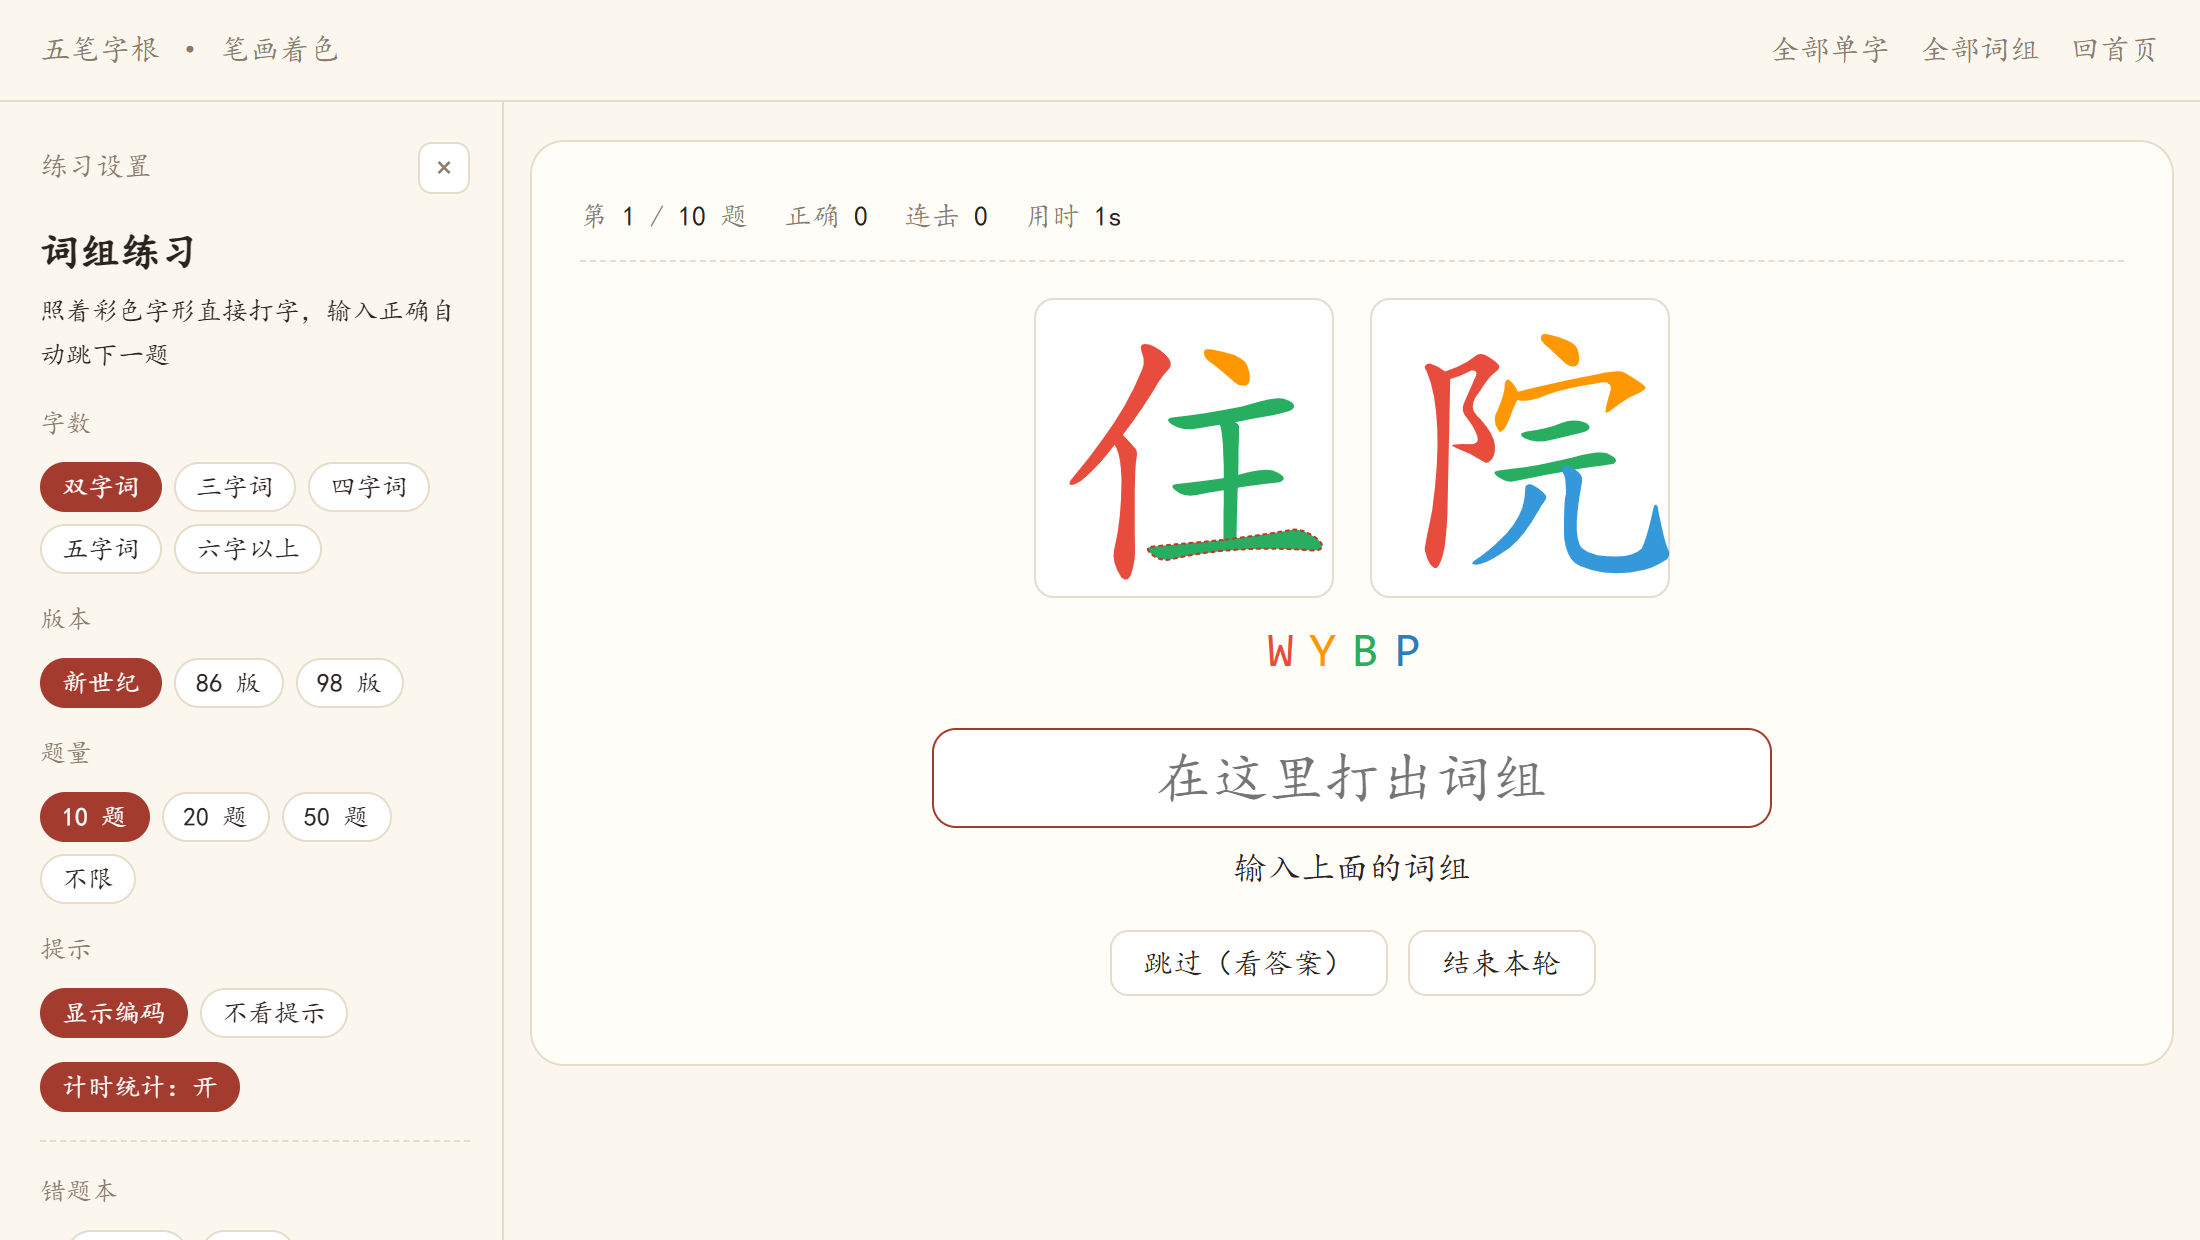
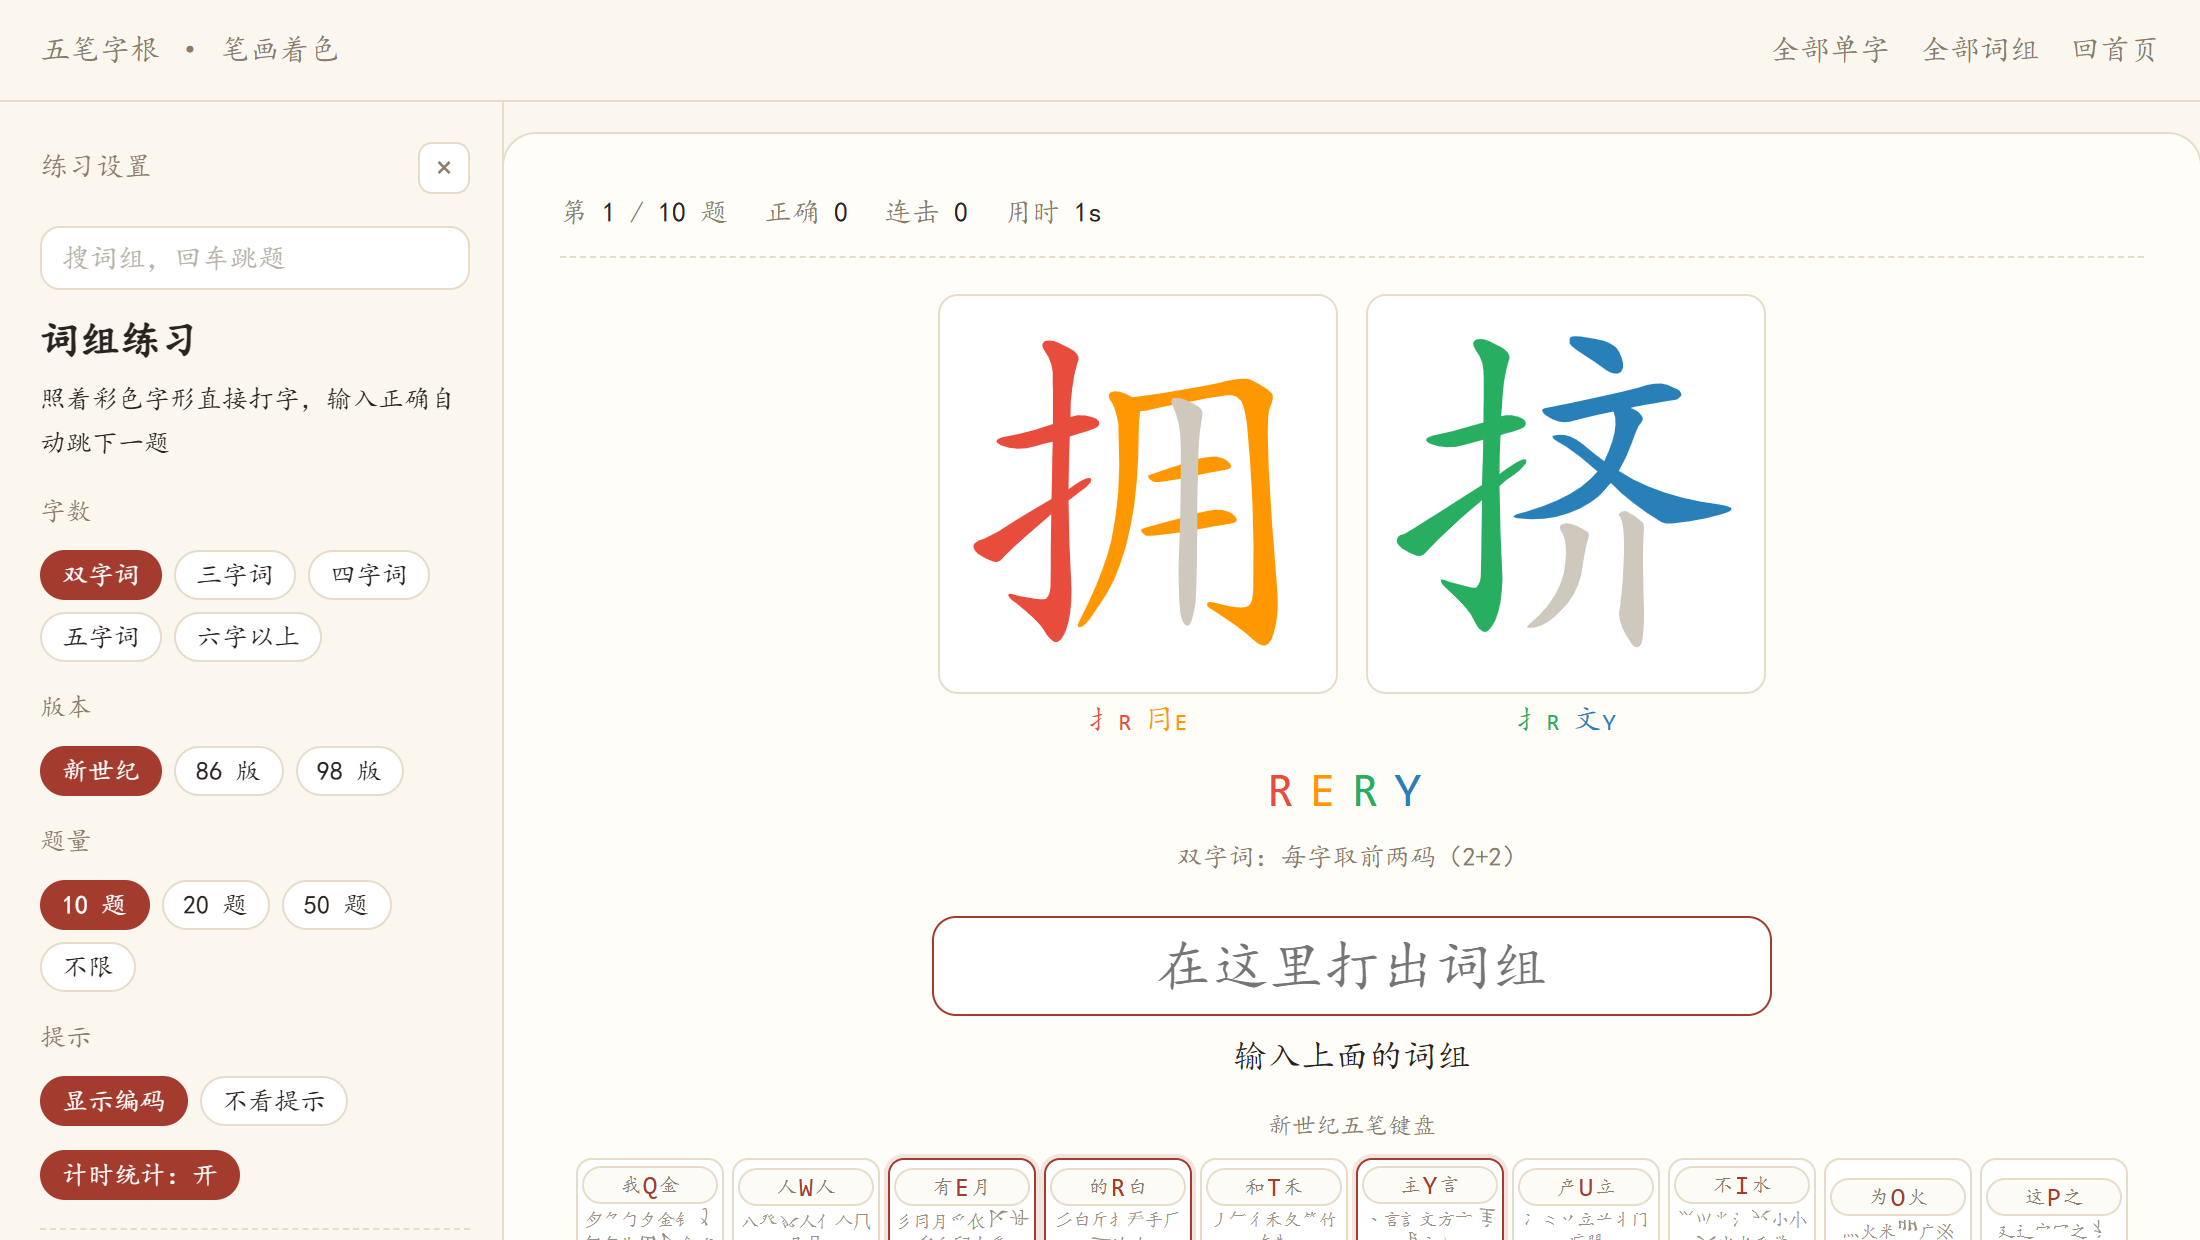
style(practice): 主区域加宽到 1500px，字形格子放大到 168px

diff --git a/tools/check-live-dashes.js b/tools/check-live-dashes.js
@@ -1,0 +1,26 @@
+const { chromium } = require('C:/Users/10061/AppData/Roaming/npm/node_modules/@playwright/cli/node_modules/playwright-core');
+
+(async () => {
+  const browser = await chromium.launch({
+    executablePath: process.env.LOCALAPPDATA + '\\ms-playwright\\chromium-1228\\chrome-win64\\chrome.exe',
+    headless: true,
+  });
+  for (const [url, name] of [
+    ['https://wubi.iqiusuo.cn/ci.html?w=' + encodeURIComponent('米饭'), 'live-ci-mifan'],
+    ['https://wubi.iqiusuo.cn/practice.html', 'live-practice'],
+  ]) {
+    const page = await browser.newPage({ viewport: { width: 1100, height: 800 } });
+    const errs = [];
+    page.on('pageerror', (e) => errs.push(e.message.slice(0, 100)));
+    await page.goto(url, { waitUntil: 'load', timeout: 60000 });
+    await page.waitForTimeout(2500);
+    const st = await page.evaluate(() => ({
+      dashes: document.querySelectorAll('svg path[stroke-dasharray]').length,
+      glyphs: document.querySelectorAll('svg.glyph').length,
+      title: document.title.slice(0, 20),
+    }));
+    console.log(name, JSON.stringify(st), '| errs:', errs.join('|') || 'none');
+    await page.close();
+  }
+  await browser.close();
+})();

diff --git a/tools/practice-widen.js b/tools/practice-widen.js
@@ -1,0 +1,16 @@
+// 主区域加宽到接近整屏（去掉 820px 上限）
+const fs = require('node:fs');
+const p = 'D:/Users/10061/Downloads/wubi/practice.html';
+let t = fs.readFileSync(p, 'utf8');
+
+const oldMain = 'main { flex:1; min-width:0; max-width:820px; margin:20px auto; background:var(--paper); box-shadow:0 0 0 1px var(--line); border-radius:16px; padding:22px 24px 34px; }';
+const newMain = 'main { flex:1; min-width:0; max-width:1500px; margin:16px auto; background:var(--paper); box-shadow:0 0 0 1px var(--line); border-radius:16px; padding:24px 28px 36px; }';
+if (!t.includes(oldMain)) { console.log('未找到 main 规则'); process.exit(1); }
+t = t.replace(oldMain, newMain);
+
+// 字形格子也跟着放大一点
+t = t.replace('.zislot { display:inline-block; width:150px; height:150px; }', '.zislot { display:inline-block; width:168px; height:168px; }');
+t = t.replace('.zi-svg { width:150px; height:150px; display:block; }', '.zi-svg { width:168px; height:168px; display:block; }');
+
+fs.writeFileSync(p, t, 'utf8');
+console.log('主区域已加宽:', t.includes('max-width:1500px'));

diff --git a/practice.html b/practice.html
@@ -24,7 +24,7 @@
  .chip.on { background:var(--accent); color:#fff; border-color:var(--accent); }
  .side-body hr { border:0; border-top:1px dashed var(--line); margin:14px 0; width:100%; }
  #openSide { position:fixed; left:10px; top:64px; z-index:40; border:1px solid var(--line); background:#fffdf8; border-radius:8px; padding:6px 10px; cursor:pointer; font-family:inherit; font-size:14px; color:var(--accent); }
- main { flex:1; min-width:0; max-width:820px; margin:20px auto; background:var(--paper); box-shadow:0 0 0 1px var(--line); border-radius:16px; padding:22px 24px 34px; }
+ main { flex:1; min-width:0; max-width:1500px; margin:16px auto; background:var(--paper); box-shadow:0 0 0 1px var(--line); border-radius:16px; padding:24px 28px 36px; }
  .statbar { display:flex; gap:18px; color:var(--muted); font-size:14px; padding:4px 0 10px; border-bottom:1px dashed var(--line); }
  .statbar b { color:var(--ink); font-weight:normal; }
  .side-end { padding:6px 0; }
